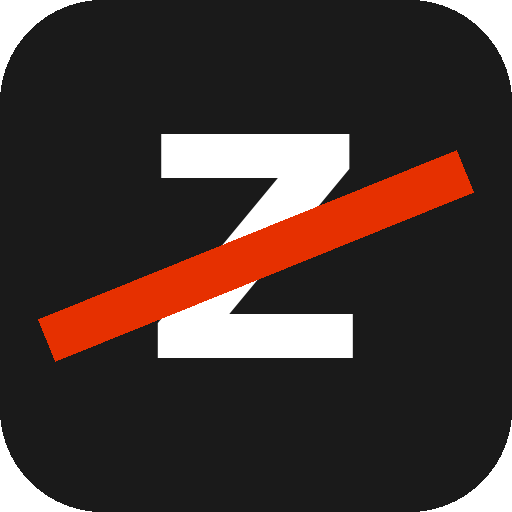
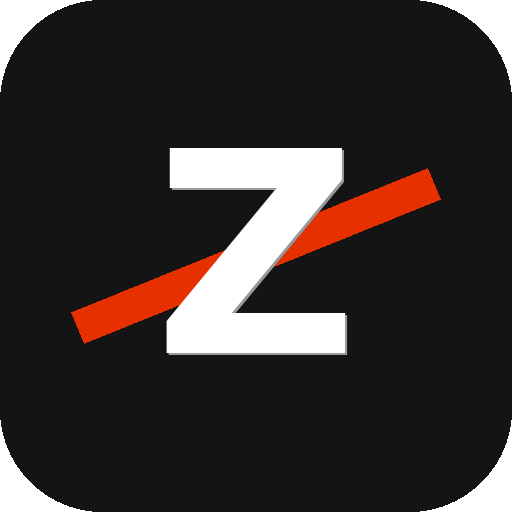
Light mode switch, Phase 8 email outreach, settings fix

diff --git a/app/globals.css b/app/globals.css
@@ -11,31 +11,31 @@
   --zr-orange:        #e63000;
   --zr-orange-hover:  #cc2900;
   --zr-orange-light:  #ff4d1a;
-  --zr-black:         #0c0c0c;
-  --zr-dark:          #1a1a1a;
-  --zr-dark-2:        #242424;
-  --zr-dark-3:        #2e2e2e;
-  --zr-border:        #2a2a2a;
-  --zr-border-light:  #e8e3dc;
+  --zr-black:         #ffffff;
+  --zr-dark:          #f8f9fa;
+  --zr-dark-2:        #f1f3f5;
+  --zr-dark-3:        #e9ecef;
+  --zr-border:        #e5e7eb;
+  --zr-border-light:  #d1d5db;
 
   /* Text Colors */
-  --zr-text-primary:   #f0ede8;
-  --zr-text-secondary: #c0bbb5;
-  --zr-text-muted:     #888280;
-  --zr-text-dark:      #1a1a1a;
+  --zr-text-primary:   #111827;
+  --zr-text-secondary: #4b5563;
+  --zr-text-muted:     #9ca3af;
+  --zr-text-dark:      #111827;
 
   /* Surface Colors */
-  --zr-surface-1:  #161616;
-  --zr-surface-2:  #1e1e1e;
-  --zr-surface-3:  #262626;
+  --zr-surface-1:  #ffffff;
+  --zr-surface-2:  #f9fafb;
+  --zr-surface-3:  #f3f4f6;
   --zr-surface-light: #f0ede8;
-  --zr-surface-white: #faf8f5;
+  --zr-surface-white: #ffffff;
 
   /* Semantic Colors */
-  --zr-success:  #22c55e;
-  --zr-warning:  #f59e0b;
-  --zr-error:    #ef4444;
-  --zr-info:     #3b82f6;
+  --zr-success:  #16a34a;
+  --zr-warning:  #d97706;
+  --zr-error:    #dc2626;
+  --zr-info:     #2563eb;
 
   /* Typography */
   --zr-font-display: 'Figtree', sans-serif;
@@ -50,10 +50,10 @@
   --zr-radius-full: 9999px;
 
   /* Shadows */
-  --zr-shadow-sm:  0 1px 3px rgba(0,0,0,0.4);
-  --zr-shadow-md:  0 4px 16px rgba(0,0,0,0.5);
-  --zr-shadow-lg:  0 8px 32px rgba(0,0,0,0.6);
-  --zr-shadow-glow: 0 0 24px rgba(230,48,0,0.3);
+  --zr-shadow-sm:  0 1px 3px rgba(0,0,0,0.06);
+  --zr-shadow-md:  0 4px 12px rgba(0,0,0,0.08);
+  --zr-shadow-lg:  0 8px 24px rgba(0,0,0,0.1);
+  --zr-shadow-glow: 0 0 20px rgba(230,48,0,0.12);
 
   /* Transitions */
   --zr-transition: 150ms ease;

diff --git a/app/zr-logo.tsx b/app/zr-logo.tsx
@@ -41,7 +41,7 @@ export function ZRLogo({ size = "sm" }: { size?: "sm" | "md" | "lg" }) {
   return (
     <span className="inline-flex items-center gap-3 no-underline select-none">
       <svg width={dims} height={dims} viewBox="0 0 90 90" fill="none" xmlns="http://www.w3.org/2000/svg">
-        <rect width="90" height="90" rx="20" fill="var(--zr-dark, #1a1a1a)" />
+        <rect width="90" height="90" rx="20" fill="#1a1a1a" />
         <text x="45" y="63" fontFamily="'Lexend Exa', sans-serif" fontWeight="900" fontSize="54" fill="white" textAnchor="middle">{mark}</text>
         <rect x="5" y="41" width="80" height="8" rx="4" fill="var(--zr-orange, #e63000)" transform="rotate(-22 45 45)" />
       </svg>
@@ -58,7 +58,7 @@ export function ZRLogo({ size = "sm" }: { size?: "sm" | "md" | "lg" }) {
 export function ZRIcon({ size = 32 }: { size?: number }) {
   return (
     <svg width={size} height={size} viewBox="0 0 90 90" fill="none" xmlns="http://www.w3.org/2000/svg">
-      <rect width="90" height="90" rx="20" fill="var(--zr-dark, #1a1a1a)" />
+      <rect width="90" height="90" rx="20" fill="#1a1a1a" />
       <text x="45" y="63" fontFamily="'Lexend Exa', sans-serif" fontWeight="900" fontSize="54" fill="white" textAnchor="middle">Z</text>
       <rect x="5" y="41" width="80" height="8" rx="4" fill="var(--zr-orange, #e63000)" transform="rotate(-22 45 45)" />
     </svg>

diff --git a/app/settings/page.tsx b/app/settings/page.tsx
@@ -678,7 +678,17 @@ export default function SettingsPage() {
 
   async function load() {
     const { data } = await supabase.from("company_settings").select("*").maybeSingle();
-    if (data) setSettings(data as Settings);
+    if (data) {
+      setSettings(data as Settings);
+    } else {
+      // Auto-create a settings row if none exists
+      const { data: created } = await supabase
+        .from("company_settings")
+        .insert([{ name: "My Company" }])
+        .select("*")
+        .single();
+      if (created) setSettings(created as Settings);
+    }
     setLoading(false);
   }
 
@@ -713,7 +723,7 @@ export default function SettingsPage() {
   }
 
   if (loading) return <div className="p-4 text-sm" style={{ background: "var(--zr-black)", color: "var(--zr-text-muted)" }}>Loading…</div>;
-  if (!settings) return <div className="p-4 text-sm" style={{ background: "var(--zr-black)", color: "var(--zr-text-muted)" }}>No settings found. Run the phase9 SQL first.</div>;
+  if (!settings) return <div className="p-4 text-sm" style={{ background: "var(--zr-black)", color: "var(--zr-text-muted)" }}>Unable to load settings. Check that your company_settings table exists and RLS is configured.</div>;
 
   return (
     <PermissionGate require="access_settings">

diff --git a/SESSION-HANDOFF.md b/SESSION-HANDOFF.md
@@ -32,16 +32,31 @@ Full auth system with Supabase Auth, RLS on all 19 tables, auto-set company_id t
 ### Phase 6 — Full Install Management — Complete ✓
 Quote→Install conversion, installer checklist system, materials packing list, customer sign-off with signature, enhanced completion flow. See details below.
 
-### Phase 7 — Rebrand to ZeroRemake + White-Label — Complete ✓ (NEW)
-Full rebrand from ShadeLogic to ZeroRemake. Dark theme with orange primary (#e63000), Figtree font, SVG logo component. White-label infrastructure: per-tenant branding via CSS custom properties, runtime injection from companies table, Settings UI for brand customization. See details below.
+### Phase 7 — Rebrand to ZeroRemake + White-Label — Complete ✓
+Full rebrand from ShadeLogic to ZeroRemake. Light mode with orange primary (#e63000), Figtree font, SVG logo component. White-label infrastructure: per-tenant branding via CSS custom properties, runtime injection from companies table, Settings UI for brand customization.
+
+### Phase 7.5 — Light Mode Switch — Complete ✓ (NEW)
+Switched entire app from dark theme to light mode. All CSS variables in globals.css flipped to white/light values. Every page that uses --zr-* vars automatically became light. ZRLogo SVG hardcoded to stay dark (#1a1a1a bg). Schedule/calendar page explicitly white. Text brightened for readability. Settings page auto-creates company_settings row if missing (was showing "Run phase9 SQL" error). New app icons generated.
+
+### Phase 8 — Automated Email Outreach with Resend — Complete ✓ (NEW)
+Transactional email system using Resend (free tier: 100/day). Includes:
+- `lib/email.ts` — Resend API integration, email logging, HTML layout wrapper
+- `lib/email-templates.ts` — 5 templates: appointment confirmation, appointment reminder, quote delivery, install follow-up, quote follow-up
+- `lib/use-email.ts` — client-side React hook for sending emails
+- `/api/send-email` — POST route that renders template + sends via Resend + logs to email_log table
+- `/api/cron/send-reminders` — GET route (Vercel Cron every 4hrs) finds appointments 18-30hrs away, sends reminder emails, deduplicates
+- `vercel.json` — cron config for automated reminders
+- Schedule page: "Email Confirmation" button in confirmation modal (shows when customer has email)
+- Quotes page: "Send Branded Email" button sends professional quote email with "View & Approve" link, auto-marks quote as sent
+- `supabase/phase8_email_outreach.sql` — email_log table with RLS, indexes, auto company_id trigger, email_opted_out column on customers
 
 ### Next Up
-- Run `supabase/phase6_install_management.sql` in Supabase SQL editor
-- Run `supabase/phase7_whitelabel.sql` in Supabase SQL editor
-- Go to Settings → Install Checklist → "Load Default Checklist" to seed your checklist items
-- `npm install pdf-parse` (required for server-side PDF parsing of order confirmations)
-- Create `order-documents` storage bucket in Supabase
-- Set up Postmark inbound email when ready to go live with email tracking
+- Run `supabase/phase8_email_outreach.sql` in Supabase SQL editor (creates email_log table)
+- Verify Resend env vars are set in Vercel (RESEND_API_KEY, SUPABASE_SERVICE_ROLE_KEY, EMAIL_FROM_ADDRESS, NEXT_PUBLIC_APP_URL, CRON_SECRET)
+- User needs to delete old "ShadeLogic" PWA from home screen and re-add from Safari for new ZeroRemake icon
+- Still pending: `npm install pdf-parse`, create `order-documents` storage bucket in Supabase
+- Still pending: Set up Postmark inbound email for order tracking
+- Still pending from phase 6/7: Run `supabase/phase6_install_management.sql` and `supabase/phase7_whitelabel.sql` if not already done
 
 ---
 
